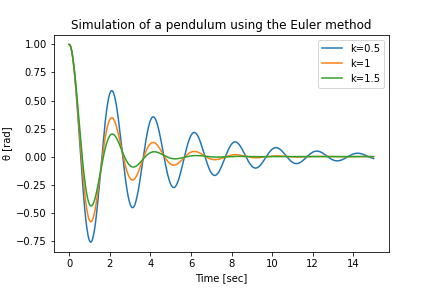
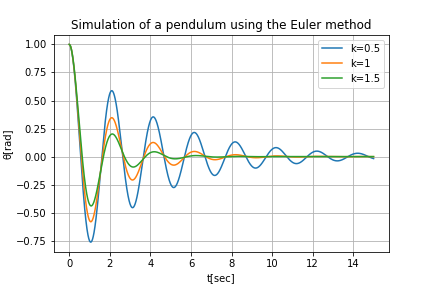
update

diff --git a/2023/plot_simulate.py b/2023/plot_simulate.py
@@ -6,7 +6,7 @@ from simulate_pendulum import *
 import matplotlib.pyplot as plt
 import numpy as np
 
-def simulation_comparison_plot(p, which_is_list, filename):
+def sim_pendulum_plot(p, which_is_list, filename):
     print(p)
     # リスト型の引数
     list_type_var = p[which_is_list]
@@ -16,16 +16,12 @@ def simulation_comparison_plot(p, which_is_list, filename):
     for var in list_type_var:
         p[which_is_list] = var
         print(p)
-        theta = simulate_pendulum(p)
-        t = [p['t_f']]
-        i=0
-        while t[i] <= p['t_e']:
-            t.append(t[i] + p['h'])
-            i += 1
+        theta,t = simulate_pendulum(p)
         plt.plot(t, theta, label=f"{which_is_list}={var}")
-    plt.xlabel("Time [sec]")
-    plt.ylabel("θ [rad]")
+    plt.xlabel("t[sec]")
+    plt.ylabel("θ[rad]")
     plt.title("Simulation of a pendulum using the Euler method")
+    plt.grid(True)
     plt.legend()
     plt.savefig(f"./out/{filename}")
     
@@ -42,4 +38,4 @@ if __name__=='__main__':
         # hのリスト
         'h' : [0.05, 0.02, 0.001]
     }
-    simulation_comparison_plot(parameters, 'h' , 'ex1-1-out.png')
+    sim_pendulum_plot(parameters, 'h' , 'ex1-1-out.png')

diff --git a/2023/ex2-1.py b/2023/ex2-1.py
@@ -1,0 +1,43 @@
+"""
+Created on Sun May 21 20:36:58 2023
+coding: utf-8
+
+"""
+
+import numpy as np
+import matplotlib.pyplot as plt
+from simulate_rlc import *
+
+p = {
+    'R' : 1.0, 
+    'L' : 0.5,  
+    'C' : 0.2,
+    'u' : 1.0,
+    't_f' : 0.0,  # 開始時刻
+    't_e' : 10.0,  # 終了時刻
+    'h' : 0.001 # 刻み幅
+}
+
+y,t = simulate_rlc(p)
+plt.plot(t, y, label=f"R={p['R']},L={p['L']},C={p['C']}")
+
+
+p['R']=1.5
+p['L']=0.8
+p['C']=0.8
+y,t = simulate_rlc(p)
+plt.plot(t, y, label=f"R={p['R']},L={p['L']},C={p['C']}")
+
+p['R']=2
+p['L']=1
+p['C']=1
+y,t = simulate_rlc(p)
+plt.plot(t, y, label=f"R={p['R']},L={p['L']},C={p['C']}")
+
+# グラフのプロット
+plt.xlabel('t[sec]')
+plt.ylabel('y(t)[V]')
+plt.title("Simulating an RLC series circuit using Euler's method")
+plt.grid(True)
+plt.legend()
+plt.savefig(f"./out/ex2-1-out.png")

diff --git a/2023/simulate_pendulum.py b/2023/simulate_pendulum.py
@@ -1,26 +1,23 @@
 import numpy as np
-
 def simulate_pendulum(p):
     l = p['l']
     m = p['m']
     k = p['k']
     g = p['g']
-    theta = p['theta']
     theta_dot = p['theta_dot']
     t_f = p['t_f']
     t_e = p['t_e']
     h = p['h']
 
-    theta = [theta]
-    theta_dot = [theta_dot]
+    theta = [p['theta']]
     t = [t_f]
 
     # オイラー法で微分方程式を解く
     i = 0
     while t[i] <= t_e:
-        theta_ddot = -(k/m)*theta_dot[i] - (g/l)*np.sin(theta[i]) #θ''
-        theta_dot.append(theta_dot[i] + h*theta_ddot) #θ'
-        theta.append(theta[i] + h*theta_dot[i]) #θ
+        theta_ddot = -(k/m)*theta_dot - (g/l)*np.sin(theta[i]) #θ''
+        theta.append(theta[i] + h*theta_dot) #θ
+        theta_dot+= h*theta_ddot #θ'
         t.append(t[i] + h)
         i += 1
-    return theta
+    return theta,t

diff --git a/2023/simulate_rlc.py b/2023/simulate_rlc.py
@@ -1,0 +1,29 @@
+"""
+Created on Sun May 21 20:23:51 2023
+coding: utf-8
+
+"""
+
+import numpy as np
+
+def simulate_rlc(p):
+    R = p['R']
+    L = p['L']
+    C = p['C']
+    u = p['u']
+    t_e = p['t_e']
+    h = p['h']
+    y = [0.0]
+    y_dot = 0.0
+    t = [p['t_f']]
+
+    # オイラー法で微分方程式を解く
+    i = 0
+    while t[i] <= t_e:
+        # オイラー法による更新式
+        y_ddot = (1 / L / C) * u - (R / L) * y_dot - (1 / L / C) * y[i]
+        y_dot += h * y_ddot
+        y.append(y[i] + h * y_dot)
+        t.append(t[i] + h)
+        i+=1
+    return y,t

diff --git a/2023/ex1-2.py b/2023/ex1-2.py
@@ -4,7 +4,7 @@ coding: utf-8
 
 """
 from simulate_pendulum import *
-from plot_simulate import *
+from plot-simulate import *
 p = dict()
 def init_p():
     global p
@@ -20,7 +20,7 @@ def init_p():
         'h' : 0.001 # 刻み幅
     }
 init_p()
-simu=simulation_comparison_plot
+simu=sim_pendulum_plot
 
 init_p()
 p['l']=[0.5,1,1.5]
@@ -39,5 +39,5 @@ p['theta']=[-1.0,0,1.0]
 simu(p,'theta','ex1-2-theta-out.png')
 
 init_p()
-p['theta_dot']=[1.0,0.0,-1.0]
-simu(p,'theta_dot','ex1-2-theta_dot_0.png')
+p['theta_dot']=[5.0,0.0,-5.0]
+simu(p,'theta_dot','ex1-2-theta_dot.png')
